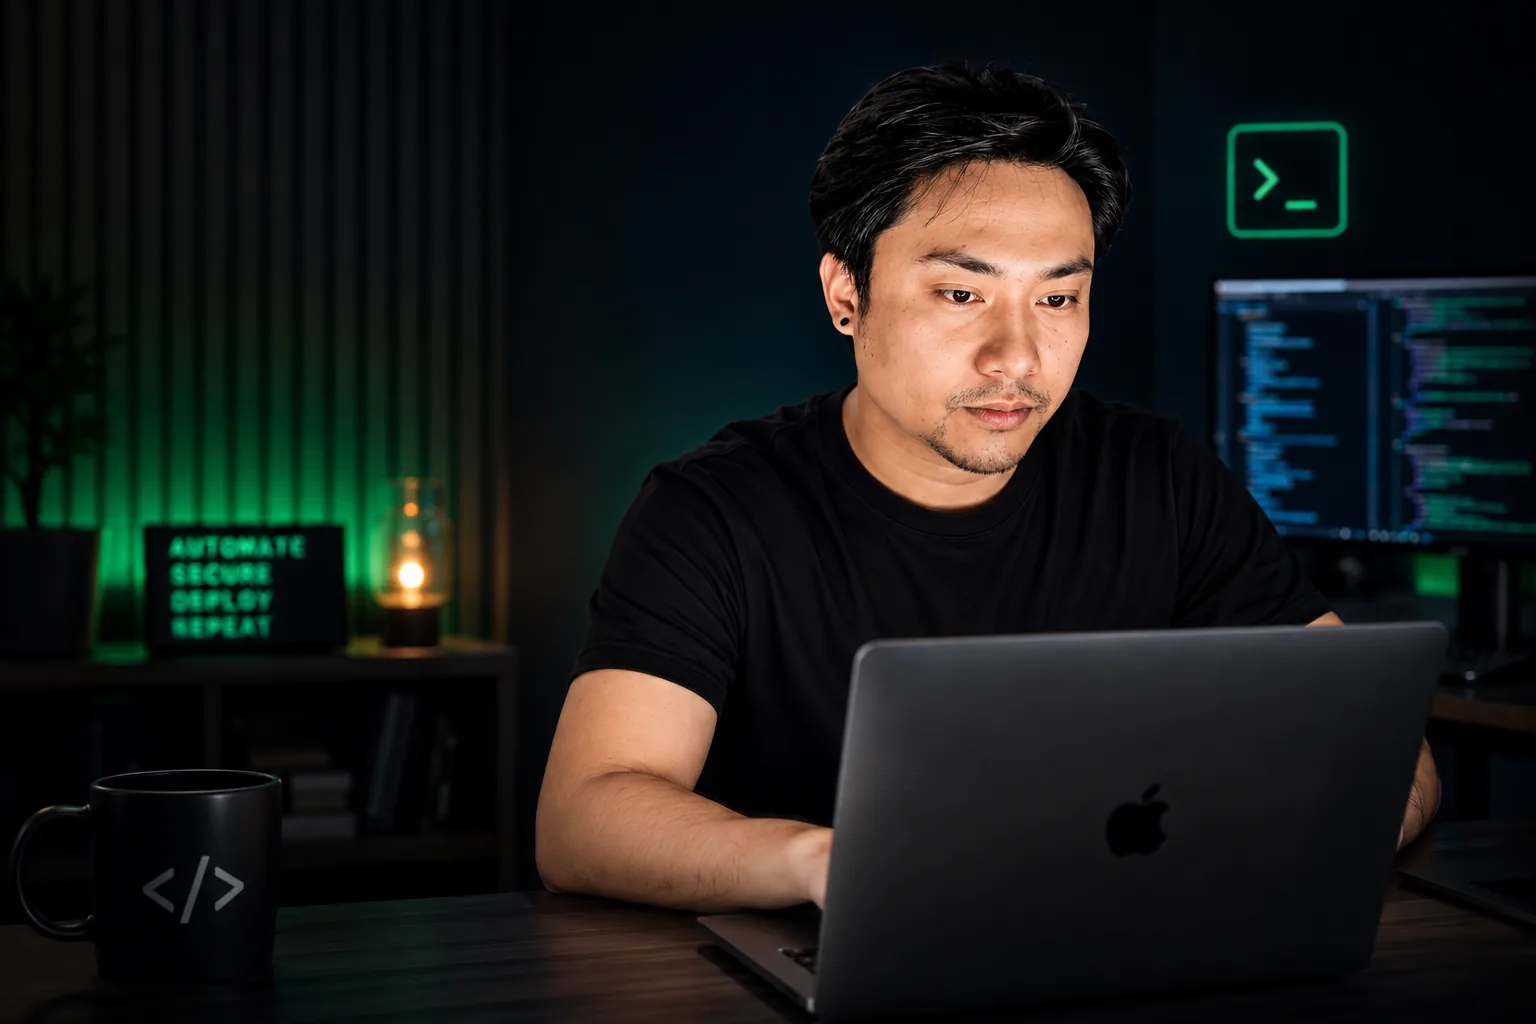
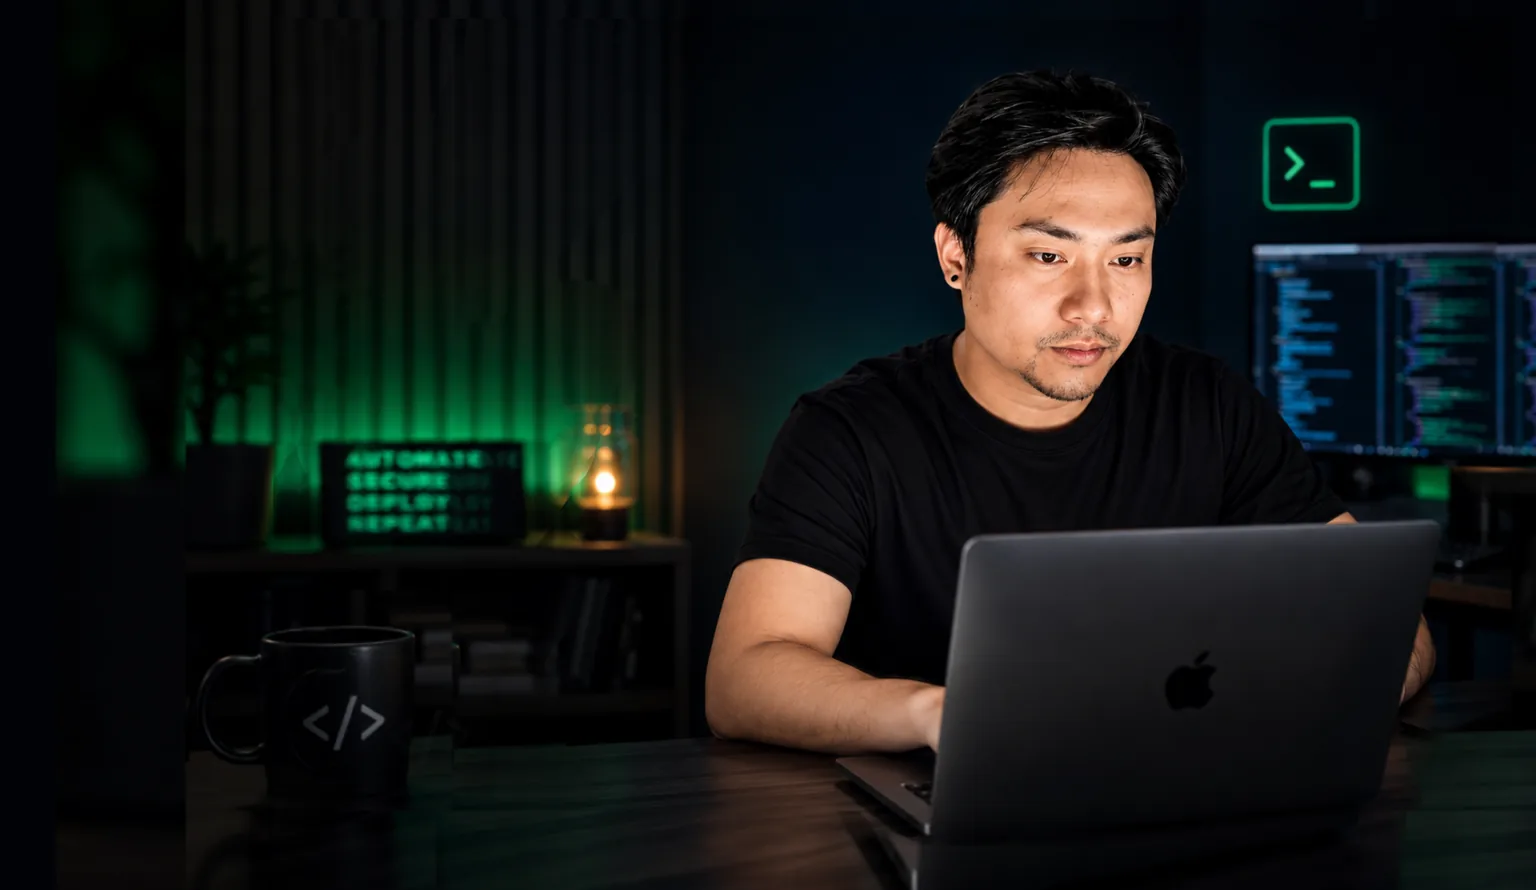
Optimize edited hero photo, animate hero intro text like About section
- Regenerate assets/img/hero-960.webp and hero-1536.webp (960x556 and
  1536x890, quality 82) from the higher-res hero photo dropped into
  the repo, preserving its new aspect ratio. Update the hero <img>
  height attribute to match (1536x890, was 1536x1024).
- Hero copy ("Hello, I'm" / "CJ Ting" / "DevOps & SecOps Engineer" /
  the 7+ years blurb) now types out sequentially on load, one line at
  a time, then stops — same underlying mechanism as the About
  terminal's cat effect, just not scroll-gated since it's above the
  fold.
- typer.js: add data-type-rich for lines with inline accent spans
  (the "DevOps & SecOps Engineer" line). It types across the original
  child-node "runs" so the colored words stay colored throughout the
  animation instead of being flattened to plain text.

diff --git a/js/typer.js b/js/typer.js
@@ -1,13 +1,41 @@
 import { reducedMotion } from "./motion.js";
 
-// Hero terminal typing. The full text ships in the HTML (no-JS floor);
-// JS captures it, moves the real text into a visually-hidden node for
-// screen readers, and retypes an aria-hidden copy character by character.
+// Terminal-style typing. The full text/markup ships in the HTML (no-JS
+// floor); JS captures it, moves the real text into a visually-hidden node
+// for screen readers, and retypes an aria-hidden copy character by
+// character. [data-type-rich] additionally preserves child <span> markup
+// (e.g. accent-colored words) by typing across text "runs" instead of a
+// single flat string.
 const CMD_DELAY = 55;
 const OUT_DELAY = 14;
 const PAUSE = 350;
+const SELECTOR = "[data-type], [data-type-out], [data-type-rich]";
+
+function escapeHtml(s) {
+  return s.replace(/&/g, "&amp;").replace(/</g, "&lt;").replace(/>/g, "&gt;");
+}
+
+function renderRuns(runs, count) {
+  let remaining = count;
+  let html = "";
+  for (const run of runs) {
+    if (remaining <= 0) break;
+    const slice = run.text.slice(0, remaining);
+    remaining -= slice.length;
+    if (!slice) continue;
+    html += run.cls ? `<span class="${run.cls}">${escapeHtml(slice)}</span>` : escapeHtml(slice);
+  }
+  return html;
+}
 
 function prepare(el) {
+  const rich = el.hasAttribute("data-type-rich");
+  const runs = rich
+    ? [...el.childNodes].map((n) => ({
+        text: n.textContent,
+        cls: n.nodeType === 1 ? n.getAttribute("class") : null,
+      }))
+    : null;
   const text = el.textContent;
   el.textContent = "";
   const sr = document.createElement("span");
@@ -16,14 +44,22 @@ function prepare(el) {
   const anim = document.createElement("span");
   anim.setAttribute("aria-hidden", "true");
   el.append(sr, anim);
-  return { anim, text };
+  return {
+    anim,
+    text,
+    runs,
+    delay: el.hasAttribute("data-type-out") ? OUT_DELAY : CMD_DELAY,
+  };
 }
 
-function typeInto(anim, text, delay) {
+function typeInto(job) {
+  const { anim, text, runs, delay } = job;
   return new Promise((resolve) => {
     let i = 0;
     const step = () => {
-      anim.textContent = text.slice(0, ++i);
+      i++;
+      if (runs) anim.innerHTML = renderRuns(runs, i);
+      else anim.textContent = text.slice(0, i);
       if (i < text.length) setTimeout(step, delay);
       else resolve();
     };
@@ -32,12 +68,9 @@ function typeInto(anim, text, delay) {
 }
 
 async function runGroup(nodes) {
-  const jobs = [...nodes].map((el) => ({
-    ...prepare(el),
-    delay: el.hasAttribute("data-type") ? CMD_DELAY : OUT_DELAY,
-  }));
+  const jobs = [...nodes].map(prepare);
   for (const job of jobs) {
-    await typeInto(job.anim, job.text, job.delay);
+    await typeInto(job);
     await new Promise((r) => setTimeout(r, PAUSE));
   }
 }
@@ -47,21 +80,17 @@ async function runGroup(nodes) {
 // command finishes — then the rest (e.g. a "cat"-ed paragraph) types out
 // visibly in place, like real command output streaming in.
 async function runTrigger(container) {
-  const nodes = [...container.querySelectorAll("[data-type], [data-type-out]")];
-  if (!nodes.length) return;
-  const jobs = nodes.map((el) => ({
-    ...prepare(el),
-    delay: el.hasAttribute("data-type") ? CMD_DELAY : OUT_DELAY,
-  }));
+  const jobs = [...container.querySelectorAll(SELECTOR)].map(prepare);
+  if (!jobs.length) return;
 
   container.classList.add("is-typing");
-  await typeInto(jobs[0].anim, jobs[0].text, jobs[0].delay);
+  await typeInto(jobs[0]);
   container.classList.remove("is-typing");
   container.classList.add("is-typed");
   await new Promise((r) => setTimeout(r, PAUSE));
 
   for (const job of jobs.slice(1)) {
-    await typeInto(job.anim, job.text, job.delay);
+    await typeInto(job);
     await new Promise((r) => setTimeout(r, PAUSE));
   }
 }
@@ -71,13 +100,9 @@ export function init() {
 
   const triggers = [...document.querySelectorAll("[data-type-trigger]")];
   const deferred = new Set();
-  triggers.forEach((t) =>
-    t.querySelectorAll("[data-type], [data-type-out]").forEach((n) => deferred.add(n))
-  );
+  triggers.forEach((t) => t.querySelectorAll(SELECTOR).forEach((n) => deferred.add(n)));
 
-  const immediate = [...document.querySelectorAll("[data-type], [data-type-out]")].filter(
-    (n) => !deferred.has(n)
-  );
+  const immediate = [...document.querySelectorAll(SELECTOR)].filter((n) => !deferred.has(n));
   if (immediate.length) runGroup(immediate);
 
   if (!triggers.length) return;

diff --git a/index.html b/index.html
@@ -51,15 +51,15 @@
       <div class="hero__photo">
         <picture>
           <source type="image/webp" srcset="assets/img/hero-960.webp 960w, assets/img/hero-1536.webp 1536w" sizes="100vw">
-          <img src="assets/img/hero-1536.webp" alt="Christopher Ting working at a laptop in a dark, terminal-lit workspace" width="1536" height="1024" fetchpriority="high">
+          <img src="assets/img/hero-1536.webp" alt="Christopher Ting working at a laptop in a dark, terminal-lit workspace" width="1536" height="890" fetchpriority="high">
         </picture>
       </div>
       <div class="container hero__grid">
         <div class="hero__copy">
-          <p class="hero__kicker">Hello, I'm</p>
-          <h1 class="hero__title">CJ Ting</h1>
-          <p class="hero__role"><span class="accent">DevOps</span> &amp; <span class="accent">SecOps</span> Engineer</p>
-          <p class="hero__sub">7+ years keeping Linux and Windows hybrid environments secure, automated, and observable — currently DevOps Engineer at Slice Labs.</p>
+          <p class="hero__kicker" data-type>Hello, I'm</p>
+          <h1 class="hero__title" data-type>CJ Ting</h1>
+          <p class="hero__role" data-type-rich><span class="accent">DevOps</span> &amp; <span class="accent">SecOps</span> Engineer</p>
+          <p class="hero__sub" data-type-out>7+ years keeping Linux and Windows hybrid environments secure, automated, and observable — currently DevOps Engineer at Slice Labs.</p>
           <div class="hero__cta">
             <a class="btn btn--solid" href="#projects">View My Work <span aria-hidden="true">→</span></a>
             <a class="btn btn--ghost" href="cv.html">Download CV <span aria-hidden="true">↓</span></a>